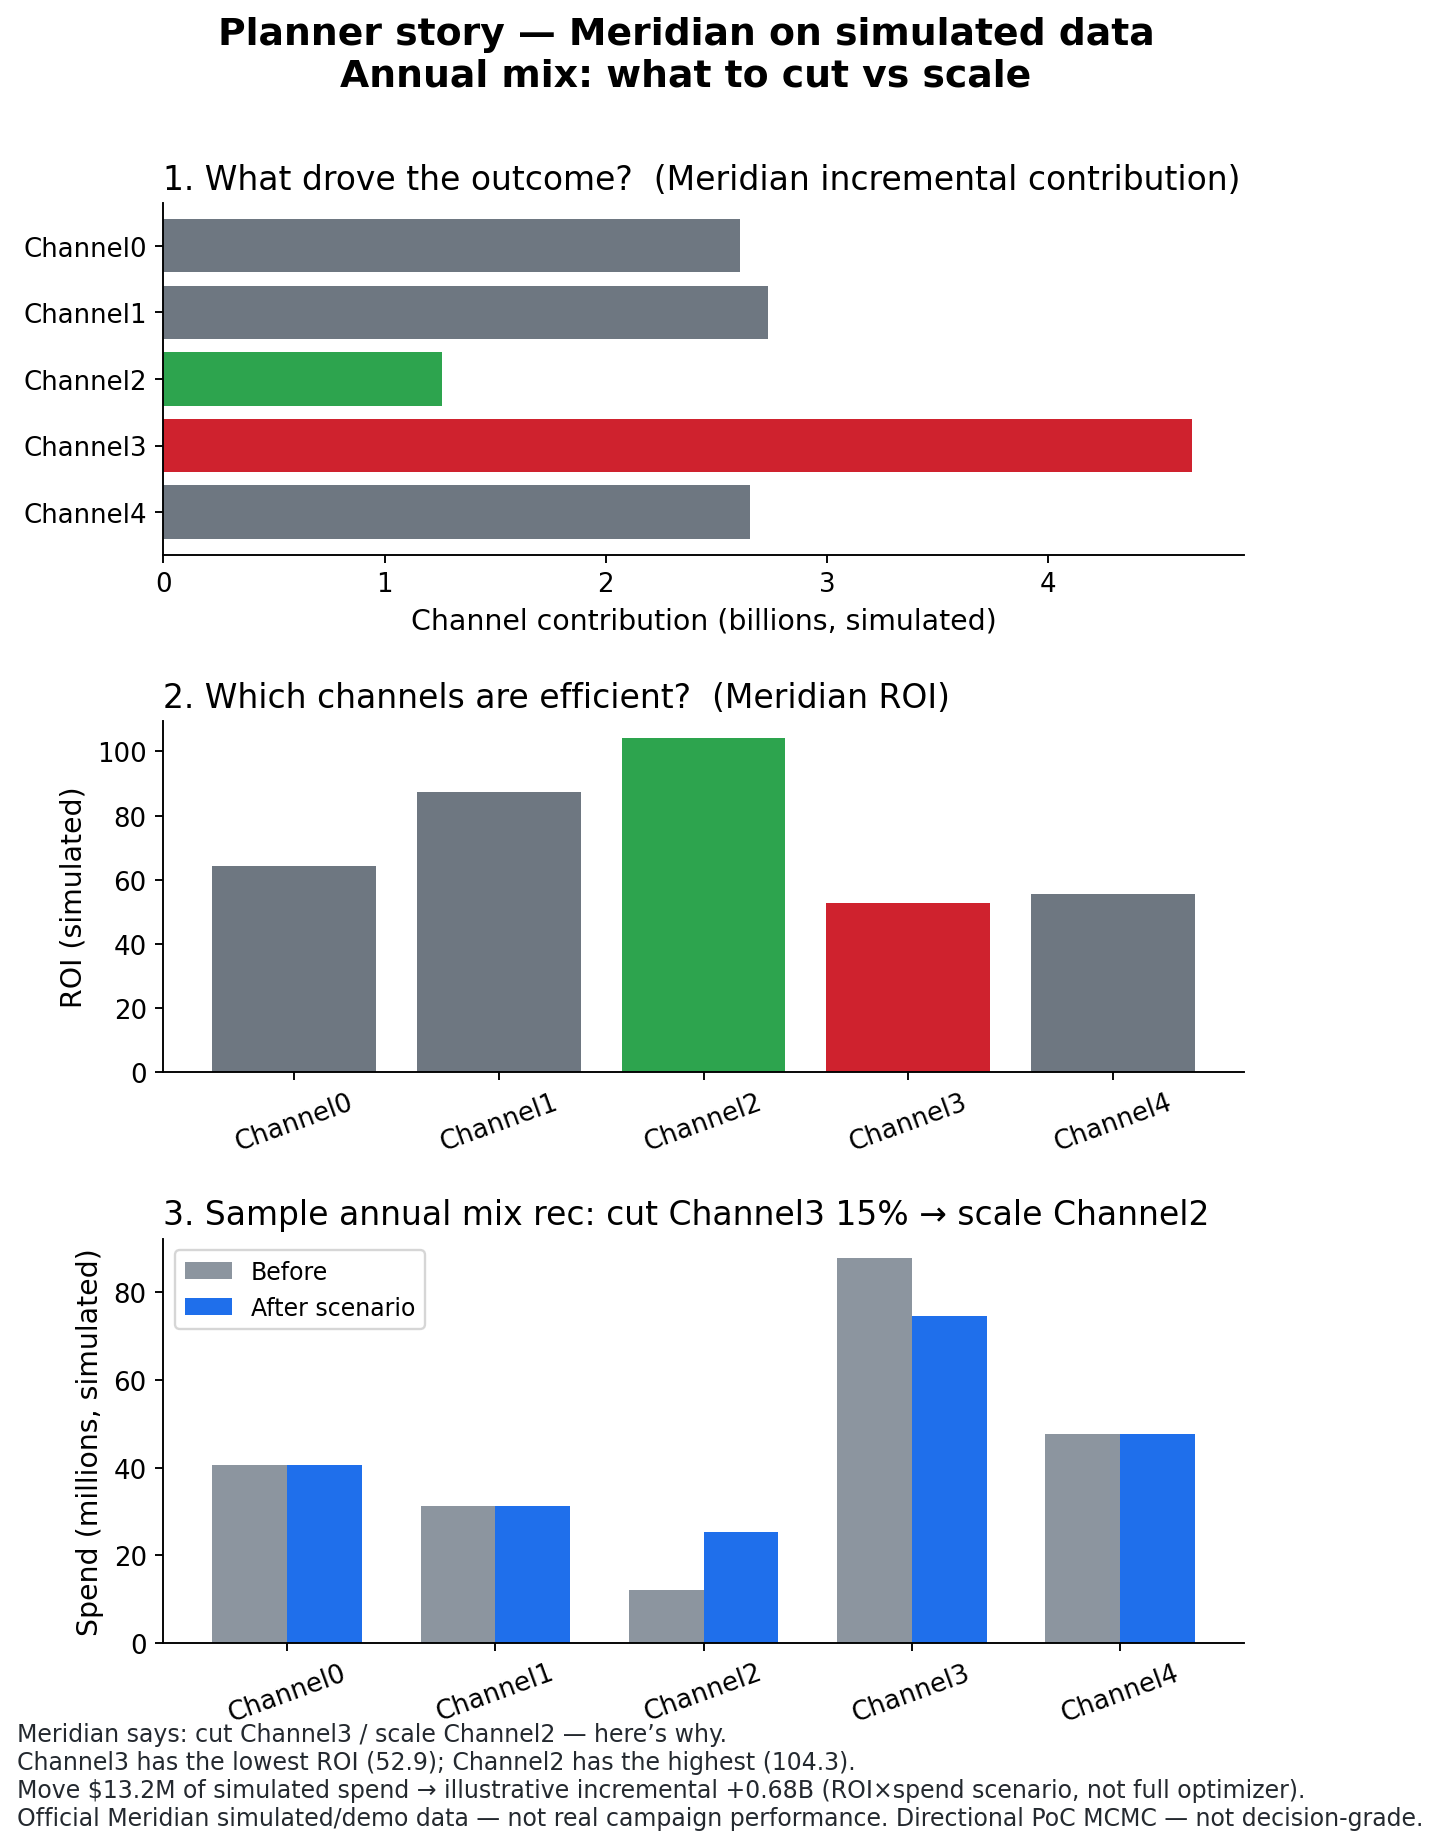
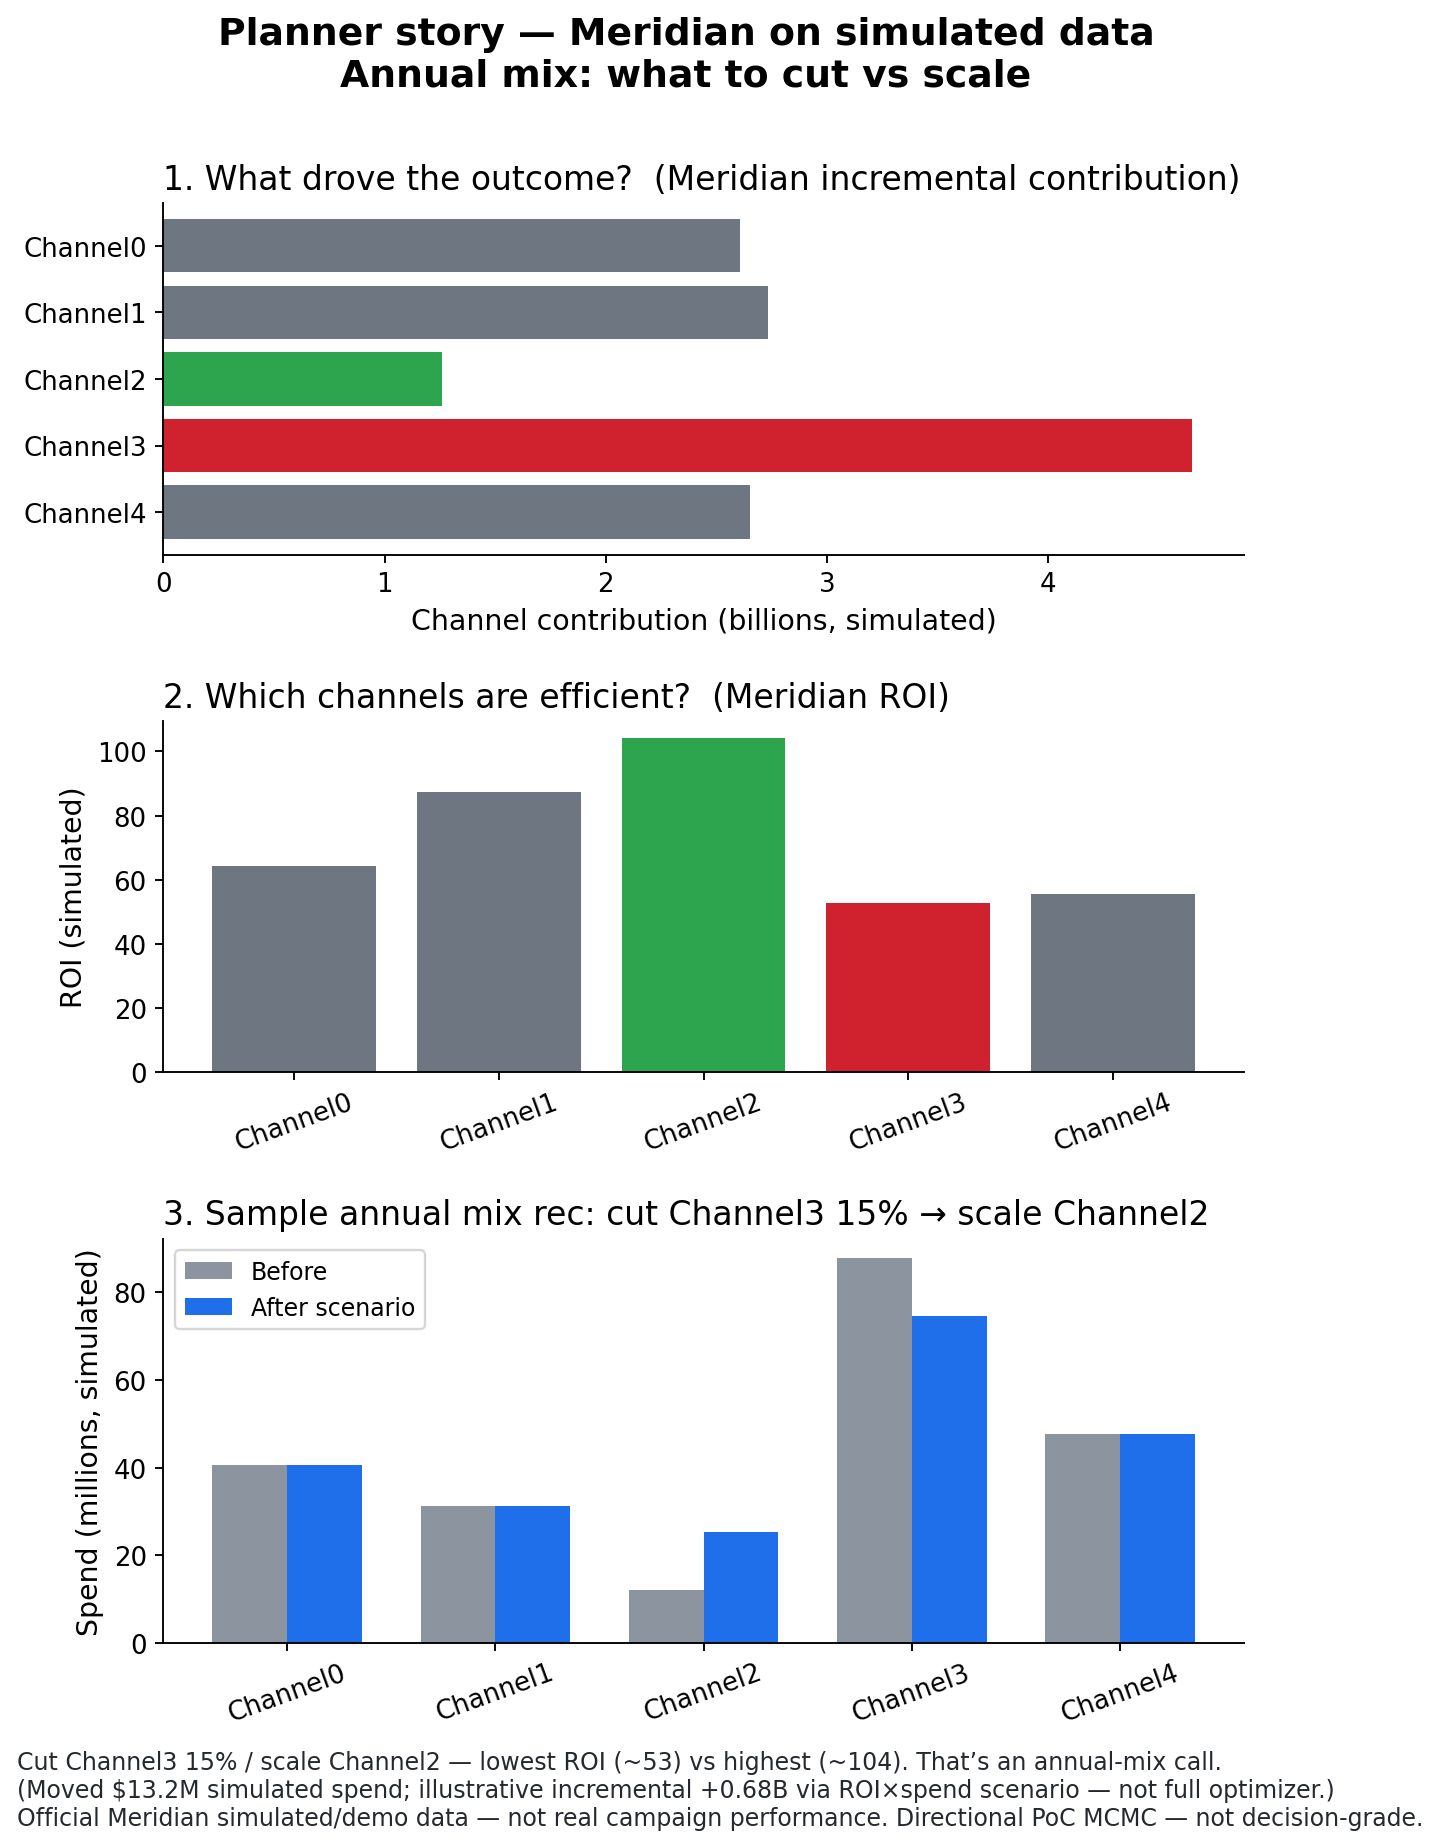
Polish planner captions to Golf’s annual-mix wording
Bake exact Meridian cut/scale and TabFM stops-here lines into PNGs,
examples README, and docs/examples_for_planners.md for phone readers.

Changed region(s): [[0.0, 0.9258, 0.9062, 0.9875]]

diff --git a/scripts/generate_planner_examples.py b/scripts/generate_planner_examples.py
@@ -115,10 +115,13 @@ def _build_story(data, contrib: dict[str, float], roi: dict[str, float], cut_pct
         "after_incremental": after_inc,
         "delta_incremental": after_inc - before_inc,
         "caption_meridian": (
-            f"Meridian says: cut {cut_ch} by {cut_pct:.0%}, scale {scale_ch} — "
-            f"lowest vs highest ROI on this simulated run."
+            f"Cut {cut_ch} {cut_pct:.0%} / scale {scale_ch} — "
+            f"lowest ROI (~{roi[cut_ch]:.0f}) vs highest (~{roi[scale_ch]:.0f}). "
+            f"That’s an annual-mix call."
         ),
-        "caption_tabfm": "TabFM only says what KPI might look like on holdout weeks. It stops there.",
+        "caption_tabfm": (
+            "Same data: KPI forecast only. No contribution, ROI, or cut/scale — planner stops here."
+        ),
     }
     return story
 
@@ -175,11 +178,11 @@ def plot_meridian_story(story: dict) -> None:
     move_m = story["move_spend"] / 1e6
     delta_b = story["delta_incremental"] / 1e9
     caption = (
-        f"Meridian says: cut {cut_ch} / scale {scale_ch} — here’s why.\n"
-        f"{cut_ch} has the lowest ROI ({story['roi'][cut_ch]:.1f}); "
-        f"{scale_ch} has the highest ({story['roi'][scale_ch]:.1f}).\n"
-        f"Move ${move_m:.1f}M of simulated spend → illustrative incremental "
-        f"{'+' if delta_b >= 0 else ''}{delta_b:.2f}B (ROI×spend scenario, not full optimizer).\n"
+        f"Cut {cut_ch} {story['cut_pct']:.0%} / scale {scale_ch} — "
+        f"lowest ROI (~{story['roi'][cut_ch]:.0f}) vs highest (~{story['roi'][scale_ch]:.0f}). "
+        f"That’s an annual-mix call.\n"
+        f"(Moved ${move_m:.1f}M simulated spend; illustrative incremental "
+        f"{'+' if delta_b >= 0 else ''}{delta_b:.2f}B via ROI×spend scenario — not full optimizer.)\n"
         f"{DISCLAIMER}. {MCMC_NOTE}."
     )
     fig.text(0.02, 0.01, caption, fontsize=10, color="#24292f", va="bottom")
@@ -206,7 +209,7 @@ def plot_tabfm_story(data, y_pred: np.ndarray) -> None:
     ax0.plot(range(n), y_pred[:n] / 1e6, marker="s", ms=4, label="TabFM predicted KPI", color="#bf3989")
     ax0.set_xlabel("Holdout week")
     ax0.set_ylabel("KPI (millions, simulated)")
-    ax0.set_title("TabFM only says: KPI might look like this", loc="left")
+    ax0.set_title("Same data: KPI forecast only", loc="left")
     ax0.legend(fontsize=10)
 
     ax1 = fig.add_subplot(gs[1])
@@ -214,14 +217,14 @@ def plot_tabfm_story(data, y_pred: np.ndarray) -> None:
     ax1.set_ylim(0, 10)
     ax1.axis("off")
     ax1.add_patch(plt.Rectangle((0.3, 0.5), 9.4, 9.0, fill=True, color="#fff5f5", ec="#cf222e", lw=2.5))
-    ax1.text(5, 8.2, "TabFM stops here", ha="center", fontsize=20, fontweight="bold", color="#cf222e")
+    ax1.text(5, 8.2, "Planner stops here", ha="center", fontsize=20, fontweight="bold", color="#cf222e")
     ax1.text(
         5,
         5.5,
-        "No channel contribution\n"
-        "No channel ROI\n"
-        "No cut vs scale / annual mix rec\n"
-        "No budget floors or strategy plan",
+        "No contribution\n"
+        "No ROI\n"
+        "No cut / scale\n"
+        "No annual mix or strategy plan",
         ha="center",
         fontsize=13,
         color="#24292f",
@@ -238,7 +241,8 @@ def plot_tabfm_story(data, y_pred: np.ndarray) -> None:
     fig.text(
         0.02,
         0.01,
-        f"TabFM only says KPI might be X — it does not say cut A / scale B.\n{DISCLAIMER}.",
+        f"Same data: KPI forecast only. No contribution, ROI, or cut/scale — planner stops here.\n"
+        f"{DISCLAIMER}.",
         fontsize=10,
         color="#24292f",
         va="bottom",
@@ -257,8 +261,8 @@ def plot_story_strip() -> None:
         axes,
         (p1, p2),
         (
-            "Meridian → annual mix answer (cut A / scale B)",
-            "TabFM → KPI forecast only (stops here)",
+            "Cut Channel3 15% / scale Channel2 — lowest ROI (~53) vs highest (~104). That’s an annual-mix call.",
+            "Same data: KPI forecast only. No contribution, ROI, or cut/scale — planner stops here.",
         ),
     ):
         ax.imshow(plt.imread(path))
@@ -280,12 +284,24 @@ def main() -> int:
     tabfm = run_tabfm(data, dry_run=False)
     plot_tabfm_story(data, tabfm.y_pred_test)
 
-    try:
-        _channels, contrib, roi = _fit_meridian(data)
-        story = _build_story(data, contrib, roi)
-    except Exception as exc:
-        logger.warning("Meridian fit failed (%s) — cannot invent TabFM strategy; abort Meridian story", exc)
-        raise
+    saved = OUT / "story_numbers.json"
+    use_saved = "--from-saved" in sys.argv and saved.exists()
+    if use_saved:
+        prev = json.loads(saved.read_text())
+        contrib = prev["story"]["contrib"]
+        roi = prev["story"]["roi"]
+        story = _build_story(data, contrib, roi, cut_pct=float(prev["story"].get("cut_pct", 0.15)))
+        logger.info("Rebuilt story from %s (no Meridian refit)", saved)
+    else:
+        try:
+            _channels, contrib, roi = _fit_meridian(data)
+            story = _build_story(data, contrib, roi)
+        except Exception as exc:
+            logger.warning(
+                "Meridian fit failed (%s) — cannot invent TabFM strategy; abort Meridian story",
+                exc,
+            )
+            raise
 
     plot_meridian_story(story)
     plot_story_strip()
@@ -308,6 +324,8 @@ def main() -> int:
             "caption_tabfm": story["caption_tabfm"],
             "roi": story["roi"],
             "contrib": story["contrib"],
+            "spend_before": story["spend_before"],
+            "spend_after": story["spend_after"],
         },
     }
     (OUT / "story_numbers.json").write_text(json.dumps(payload, indent=2))

diff --git a/docs/examples_for_planners.md b/docs/examples_for_planners.md
@@ -4,8 +4,8 @@
 
 Open these two images on your phone (same simulated Meridian demo data):
 
-1. [Meridian annual mix story](../examples/01_meridian_annual_mix_story.png) — cut / scale with numbers  
-2. [TabFM KPI + “stops here”](../examples/02_tabfm_kpi_stops_here.png) — forecast only  
+1. [Meridian annual mix story](../examples/01_meridian_annual_mix_story.png)  
+2. [TabFM KPI + planner stops here](../examples/02_tabfm_kpi_stops_here.png)
 
 Optional scroll strip: [one planner story](../examples/00_one_planner_story.png)
 
@@ -19,26 +19,24 @@ Optional scroll strip: [one planner story](../examples/00_one_planner_story.png)
 
 ### Meridian’s example answer (this run)
 
-**Cut Channel3 by 15% → scale Channel2.**
+**Cut Channel3 15% / scale Channel2 — lowest ROI (~53) vs highest (~104). That’s an annual-mix call.**
 
-| Why (this dummy run) | Number |
+| Detail (this dummy run) | Number |
 | --- | ---: |
-| Channel3 ROI (lowest) | ~52.9 |
-| Channel2 ROI (highest) | ~104.3 |
+| Channel3 ROI (lowest) | ~53 |
+| Channel2 ROI (highest) | ~104 |
 | Spend moved | ~$13.2M simulated |
 | Illustrative incremental (ROI × spend scenario) | ~+0.68B |
 
-Plain language: **Meridian says cut Channel3 / scale Channel2 — here’s why** (lowest vs highest ROI; contribution shown so you see Channel3 is big but inefficient).
+Contribution is shown so you can see Channel3 is large but inefficient — the mix call is driven by ROI, not volume alone.
 
 This is a **labeled scenario** using Meridian ROI on official demo data — not a full production optimizer, and **not** advice for a real brand.
 
 ### TabFM’s example answer (same data)
 
-TabFM draws a holdout KPI line (actual vs predicted).
+**Same data: KPI forecast only. No contribution, ROI, or cut/scale — planner stops here.**
 
-Plain language: **TabFM only says KPI might look like X. It stops there.**
-
-No contribution. No ROI. No cut vs scale. No annual strategy plan.
+TabFM draws a holdout KPI line (actual vs predicted). That is all.
 
 ---
 

diff --git a/examples/README.md b/examples/README.md
@@ -2,20 +2,20 @@
 
 **One story, two images** — not a metrics dump.
 
-| # | File | Plain-language caption |
+| # | File | Caption |
 | --- | --- | --- |
-| 1 | [01_meridian_annual_mix_story.png](01_meridian_annual_mix_story.png) | Meridian says cut Channel3 / scale Channel2 — here’s why |
-| 2 | [02_tabfm_kpi_stops_here.png](02_tabfm_kpi_stops_here.png) | TabFM only says KPI might be X — it stops there |
+| 1 | [01_meridian_annual_mix_story.png](01_meridian_annual_mix_story.png) | Cut Channel3 15% / scale Channel2 — lowest ROI (~53) vs highest (~104). That’s an annual-mix call. |
+| 2 | [02_tabfm_kpi_stops_here.png](02_tabfm_kpi_stops_here.png) | Same data: KPI forecast only. No contribution, ROI, or cut/scale — planner stops here. |
 | 3 | [00_one_planner_story.png](00_one_planner_story.png) | Optional side-by-side scroll strip |
 
-Numbers for this dummy run: [`story_numbers.json`](story_numbers.json)
-
-Regenerate:
+Numbers: [`story_numbers.json`](story_numbers.json)
 
 ```bash
 python scripts/generate_planner_examples.py
+# Caption-only redraw from saved numbers (no Meridian refit):
+python scripts/generate_planner_examples.py --from-saved
 ```
 
-Read the story: [`../docs/examples_for_planners.md`](../docs/examples_for_planners.md)
+Story: [`../docs/examples_for_planners.md`](../docs/examples_for_planners.md)
 
 > Official Meridian simulated/demo data only. Not real campaign performance.

diff --git a/README.md b/README.md
@@ -10,8 +10,8 @@
 👉 **[`docs/examples_for_planners.md`](docs/examples_for_planners.md)**  
 👉 Images: [`examples/01_meridian_annual_mix_story.png`](examples/01_meridian_annual_mix_story.png) · [`examples/02_tabfm_kpi_stops_here.png`](examples/02_tabfm_kpi_stops_here.png)
 
-On this simulated run: **Meridian says cut Channel3 / scale Channel2** (ROI ~53 vs ~104).  
-**TabFM only forecasts holdout KPI** and stops — no mix recommendation.
+On this simulated run: **Cut Channel3 15% / scale Channel2 — lowest ROI (~53) vs highest (~104). That’s an annual-mix call.**  
+**Same data: KPI forecast only. No contribution, ROI, or cut/scale — planner stops here.**
 
 Checklist one-pager: [`docs/decisioning_checklist.md`](docs/decisioning_checklist.md)
 
